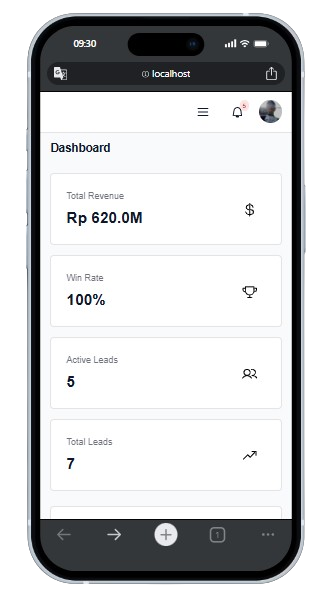
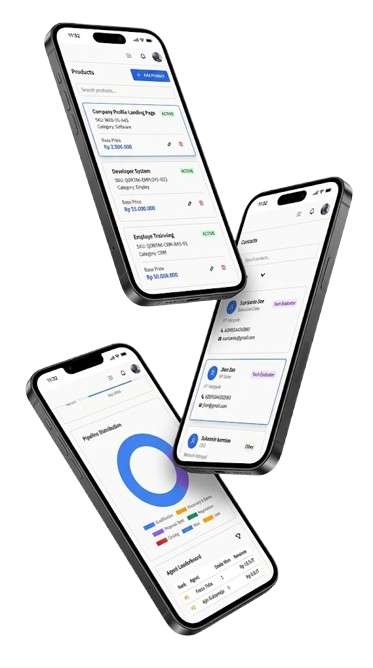
Mobile responsiveness: DealDetailPage + AgentsPage

diff --git a/frontend/src/pages/DealDetailPage.jsx b/frontend/src/pages/DealDetailPage.jsx
@@ -12,6 +12,7 @@ import {
   Portal,
   SimpleGrid,
   Spinner,
+  Stack,
   Text,
   VStack,
   Badge,
@@ -282,13 +283,13 @@ export default function DealDetailPage() {
 
   return (
     <VStack gap={6} align="stretch">
-      <HStack justify="space-between">
-        <HStack gap={3}>
+      <Stack direction={{ base: "column", md: "row" }} justify="space-between" gap={4} align={{ base: "start", md: "center" }}>
+        <HStack gap={3} wrap="wrap">
           <Button size="sm" variant="ghost" onClick={() => navigate("/deals")}><ArrowLeft size={16} /></Button>
           <Heading fontWeight="semibold" size="lg">{deal.name}</Heading>
           <Badge colorPalette={currentStage?.color || "gray"} size="lg">{currentStage?.label}</Badge>
         </HStack>
-        <HStack gap={2}>
+        <HStack gap={2} wrap="wrap">
           {deal.stage !== "WON" && deal.stage !== "LOST" && nextStage && (
             <Button size="sm" bg="primary" color="white" onClick={() => handleMoveStage(nextStage.value)} _hover={{ bg: "secondary" }}>
               <ArrowRight size={14} /> Move to {nextStage.label}
@@ -302,14 +303,14 @@ export default function DealDetailPage() {
           )}
           <Button size="sm" variant="outline" onClick={openEditDeal}><PencilSimple size={14} /> Edit</Button>
         </HStack>
-      </HStack>
+      </Stack>
 
       <Box display="grid" gridTemplateColumns={{ base: "1fr", lg: "2fr 1fr" }} gap={6}>
         <VStack gap={6} align="stretch">
           <Card.Root bg="#FAFAFA" border="1px solid" borderColor="border">
             <Card.Header><Heading fontWeight="semibold" size="sm">Deal Information</Heading></Card.Header>
             <Card.Body>
-              <SimpleGrid columns={2} gap={4}>
+              <SimpleGrid columns={{ base: 1, md: 2 }} gap={4}>
                 <VStack align="start" gap={1}>
                   <Text fontSize="xs" color="gray.500">Deal Value</Text>
                   <HStack gap={1}><CurrencyDollar size={14} color="primary" /><Text fontWeight="bold" fontSize="lg" color="primary">Rp {Number(deal.amount).toLocaleString("id-ID")}</Text></HStack>
@@ -327,7 +328,7 @@ export default function DealDetailPage() {
                   <Text fontSize="sm">{deal.source || "-"}</Text>
                 </VStack>
                 {deal.description && (
-                  <VStack align="start" gap={1} gridColumn="span 2">
+                  <VStack align="start" gap={1} gridColumn={{ base: "span 1", md: "span 2" }}>
                     <Text fontSize="xs" color="gray.500">Description</Text>
                     <Text fontSize="sm">{deal.description}</Text>
                   </VStack>
@@ -381,27 +382,29 @@ export default function DealDetailPage() {
               ) : (
                 <VStack gap={3} align="stretch">
                   {deal.line_items.map((li) => (
-                    <HStack key={li.id} p={3} bg="muted" borderRadius="lg" justify="space-between">
-                      <HStack gap={3}>
-                        <Box w={8} h={8} borderRadius="full" bg="purple.500" color="white" display="flex" alignItems="center" justifyContent="center"><Package size={14} /></Box>
-                        <VStack align="start" gap={0}>
-                          <Text fontWeight="medium" fontSize="sm">{li.product_name}</Text>
-                          {li.product_code && <Text fontSize="xs" color="gray.500">SKU: {li.product_code}</Text>}
-                        </VStack>
-                      </HStack>
-                      <HStack gap={4} align="center">
-                        <VStack align="end" gap={0}>
-                          <Text fontSize="xs" color="gray.500">Qty: {li.quantity}</Text>
-                          <Text fontSize="xs" color="gray.500">Price: Rp {Number(li.unit_price).toLocaleString("id-ID")}</Text>
-                          {Number(li.discount) > 0 && <Text fontSize="xs" color="red.500">Discount: {Number(li.discount)}%</Text>}
-                        </VStack>
-                        <Text fontWeight="bold" fontSize="sm" color="primary">Rp {Number(li.total_price).toLocaleString("id-ID")}</Text>
+                    <VStack key={li.id} p={3} bg="muted" borderRadius="lg" align="stretch" gap={3}>
+                      <HStack justify="space-between" gap={3}>
+                        <HStack gap={3}>
+                          <Box w={8} h={8} borderRadius="full" bg="purple.500" color="white" display="flex" alignItems="center" justifyContent="center"><Package size={14} /></Box>
+                          <VStack align="start" gap={0}>
+                            <Text fontWeight="medium" fontSize="sm">{li.product_name}</Text>
+                            {li.product_code && <Text fontSize="xs" color="gray.500">SKU: {li.product_code}</Text>}
+                          </VStack>
+                        </HStack>
                         <HStack gap={1}>
                           <Button size="xs" variant="ghost" onClick={() => openEditLineItem(li)}><PencilSimple size={12} /></Button>
                           <Button size="xs" variant="ghost" color="red.500" onClick={() => handleDeleteLineItem(li.id)}><Trash size={12} /></Button>
                         </HStack>
                       </HStack>
-                    </HStack>
+                      <HStack justify="space-between" pl={11}>
+                        <VStack align="start" gap={0}>
+                          <Text fontSize="xs" color="gray.500">Qty: {li.quantity}</Text>
+                          <Text fontSize="xs" color="gray.500">Price: Rp {Number(li.unit_price).toLocaleString("id-ID")}</Text>
+                          {Number(li.discount) > 0 && <Text fontSize="xs" color="red.500">Discount: {Number(li.discount)}%</Text>}
+                        </VStack>
+                        <Text fontWeight="bold" fontSize="sm" color="primary">Rp {Number(li.total_price).toLocaleString("id-ID")}</Text>
+                      </HStack>
+                    </VStack>
                   ))}
                 </VStack>
               )}
@@ -466,19 +469,19 @@ export default function DealDetailPage() {
                     <Input placeholder="Deal name" value={editForm.name || ""} onChange={(e) => { setEditErrors({}); setEditForm({ ...editForm, name: e.target.value }); }} />
                     <Field.ErrorText>{editErrors.name}</Field.ErrorText>
                   </Field.Root>
-                  <HStack gap={4} w="full">
-                    <Field.Root flex={1}><Field.Label>Amount (Rp) (optional)</Field.Label><Input type="number" placeholder="0" value={editForm.amount || ""} onChange={(e) => setEditForm({ ...editForm, amount: e.target.value })} /></Field.Root>
-                    <Field.Root flex={1}><Field.Label>Probability (%) (optional)</Field.Label><Input type="number" placeholder="0-100" value={editForm.probability || ""} onChange={(e) => setEditForm({ ...editForm, probability: parseInt(e.target.value) || 0 })} /></Field.Root>
-                  </HStack>
-                  <HStack gap={4} w="full">
-                    <Field.Root flex={1}><Field.Label>Stage (optional)</Field.Label><select value={editForm.stage || ""} onChange={(e) => setEditForm({ ...editForm, stage: e.target.value })} style={{ padding: "8px 12px", borderRadius: "8px", border: "1px solid var(--color-border)", fontSize: "14px", width: "100%", backgroundColor: "#FAFAFA" }}>{STAGE_CHOICES.map((s) => <option key={s.value} value={s.value}>{s.label}</option>)}</select></Field.Root>
-                    <Field.Root flex={1}><Field.Label>Expected Close (optional)</Field.Label><Input type="date" value={editForm.expected_close_date || ""} onChange={(e) => setEditForm({ ...editForm, expected_close_date: e.target.value })} /></Field.Root>
-                  </HStack>
+                  <SimpleGrid columns={{ base: 1, md: 2 }} gap={4} w="full">
+                    <Field.Root><Field.Label>Amount (Rp) (optional)</Field.Label><Input type="number" placeholder="0" value={editForm.amount || ""} onChange={(e) => setEditForm({ ...editForm, amount: e.target.value })} /></Field.Root>
+                    <Field.Root><Field.Label>Probability (%) (optional)</Field.Label><Input type="number" placeholder="0-100" value={editForm.probability || ""} onChange={(e) => setEditForm({ ...editForm, probability: parseInt(e.target.value) || 0 })} /></Field.Root>
+                  </SimpleGrid>
+                  <SimpleGrid columns={{ base: 1, md: 2 }} gap={4} w="full">
+                    <Field.Root><Field.Label>Stage (optional)</Field.Label><select value={editForm.stage || ""} onChange={(e) => setEditForm({ ...editForm, stage: e.target.value })} style={{ padding: "8px 12px", borderRadius: "8px", border: "1px solid var(--color-border)", fontSize: "14px", width: "100%", backgroundColor: "#FAFAFA" }}>{STAGE_CHOICES.map((s) => <option key={s.value} value={s.value}>{s.label}</option>)}</select></Field.Root>
+                    <Field.Root><Field.Label>Expected Close (optional)</Field.Label><Input type="date" value={editForm.expected_close_date || ""} onChange={(e) => setEditForm({ ...editForm, expected_close_date: e.target.value })} /></Field.Root>
+                  </SimpleGrid>
                   {editForm.stage === "LOST" && (
-                    <HStack gap={4} w="full">
-                      <Field.Root flex={1}><Field.Label>Lost Reason (optional)</Field.Label><select value={editForm.lost_reason || ""} onChange={(e) => setEditForm({ ...editForm, lost_reason: e.target.value })} style={{ padding: "8px 12px", borderRadius: "8px", border: "1px solid var(--color-border)", fontSize: "14px", width: "100%", backgroundColor: "#FAFAFA" }}><option value="">Select...</option>{LOST_REASON_CHOICES.map((r) => <option key={r.value} value={r.value}>{r.label}</option>)}</select></Field.Root>
-                      <Field.Root flex={1}><Field.Label>Lost Notes (optional)</Field.Label><Input placeholder="Why was this deal lost?" value={editForm.lost_notes || ""} onChange={(e) => setEditForm({ ...editForm, lost_notes: e.target.value })} /></Field.Root>
-                    </HStack>
+                    <SimpleGrid columns={{ base: 1, md: 2 }} gap={4} w="full">
+                      <Field.Root><Field.Label>Lost Reason (optional)</Field.Label><select value={editForm.lost_reason || ""} onChange={(e) => setEditForm({ ...editForm, lost_reason: e.target.value })} style={{ padding: "8px 12px", borderRadius: "8px", border: "1px solid var(--color-border)", fontSize: "14px", width: "100%", backgroundColor: "#FAFAFA" }}><option value="">Select...</option>{LOST_REASON_CHOICES.map((r) => <option key={r.value} value={r.value}>{r.label}</option>)}</select></Field.Root>
+                      <Field.Root><Field.Label>Lost Notes (optional)</Field.Label><Input placeholder="Why was this deal lost?" value={editForm.lost_notes || ""} onChange={(e) => setEditForm({ ...editForm, lost_notes: e.target.value })} /></Field.Root>
+                    </SimpleGrid>
                   )}
                   <Field.Root w="full"><Field.Label>Description (optional)</Field.Label><textarea placeholder="Deal description..." value={editForm.description || ""} onChange={(e) => setEditForm({ ...editForm, description: e.target.value })} rows={3} style={{ width: "100%", padding: "8px 12px", borderRadius: "8px", border: "1px solid var(--color-border)", fontSize: "14px", resize: "vertical" }} /></Field.Root>
                 </VStack>
@@ -545,14 +548,14 @@ export default function DealDetailPage() {
                     </select>
                     <Field.ErrorText>{lineItemErrors.product}</Field.ErrorText>
                   </Field.Root>
-                  <HStack gap={4} w="full">
-                    <Field.Root flex={1}><Field.Label>Quantity (optional)</Field.Label><Input type="number" placeholder="1" value={lineItemForm.quantity} onChange={(e) => setLineItemForm({ ...lineItemForm, quantity: parseInt(e.target.value) || 1 })} /></Field.Root>
-                    <Field.Root flex={1} required invalid={!!lineItemErrors.unit_price}>
+                  <SimpleGrid columns={{ base: 1, md: 2 }} gap={4} w="full">
+                    <Field.Root><Field.Label>Quantity (optional)</Field.Label><Input type="number" placeholder="1" value={lineItemForm.quantity} onChange={(e) => setLineItemForm({ ...lineItemForm, quantity: parseInt(e.target.value) || 1 })} /></Field.Root>
+                    <Field.Root required invalid={!!lineItemErrors.unit_price}>
                       <Field.Label>Unit Price (Rp)</Field.Label>
                       <Input type="number" placeholder="0" value={lineItemForm.unit_price} onChange={(e) => { setLineItemErrors({ ...lineItemErrors, unit_price: undefined }); setLineItemForm({ ...lineItemForm, unit_price: parseFloat(e.target.value) || 0 }); }} />
                       <Field.ErrorText>{lineItemErrors.unit_price}</Field.ErrorText>
                     </Field.Root>
-                  </HStack>
+                  </SimpleGrid>
                   <Field.Root w="full"><Field.Label>Discount (%) (optional)</Field.Label><Input type="number" placeholder="0" min={0} max={100} value={lineItemForm.discount} onChange={(e) => { const v = Math.min(100, Math.max(0, parseFloat(e.target.value) || 0)); setLineItemForm({ ...lineItemForm, discount: v }); }} /></Field.Root>
                   <HStack justify="space-between" w="full" p={3} bg="muted" borderRadius="lg">
                     <Text fontSize="sm" fontWeight="bold">Total:</Text>

diff --git a/frontend/src/pages/LandingPage.jsx b/frontend/src/pages/LandingPage.jsx
@@ -33,12 +33,36 @@ import pipelineHighlight from "@/assets/pipeline-highlight.png";
 import ctaImg from "@/assets/cta.jpg";
 
 const features = [
-  { icon: Kanban, title: "Sales Pipeline", desc: "Visual Kanban board to track every deal from first contact to closed won." },
-  { icon: ChartLineUp, title: "Real-time Analytics", desc: "Dashboards with charts showing revenue, win rate, and agent performance." },
-  { icon: Users, title: "Lead Management", desc: "Organize, tag, and filter prospects with Hot/Cold temperature indicators." },
-  { icon: ShieldCheck, title: "Secure & Multi-tenant", desc: "JWT authentication with company-level data isolation for every team." },
-  { icon: Lightning, title: "Activity Tracking", desc: "Chronological activity logs for every lead interaction, nothing lost." },
-  { icon: DeviceMobile, title: "Responsive Design", desc: "Full mobile and desktop support — manage deals from anywhere." },
+  {
+    icon: Kanban,
+    title: "Visual Sales Pipeline",
+    desc: "Track every deal seamlessly with an intuitive Kanban board. Drag and drop leads across customized stages from initial inquiry to final contract signing.",
+  },
+  {
+    icon: ChartLineUp,
+    title: "Real-time Analytics & Dashboards",
+    desc: "Make data-driven decisions with dynamic charts. Monitor monthly revenue forecasts, team win rates, pipeline distribution, and top-performing sales agents.",
+  },
+  {
+    icon: Users,
+    title: "Advanced Lead Management",
+    desc: "Organize, tag, and segment prospects effortlesly. Utilize Hot/Cold temperature indicators and custom filters to prioritize high-value leads and boost conversion.",
+  },
+  {
+    icon: ShieldCheck,
+    title: "Multi-tenant & Enterprise Security",
+    desc: "Built with JWT authentication and strict company-level data isolation, ensuring your sensitive business data stays completely secure and private.",
+  },
+  {
+    icon: Lightning,
+    title: "Chronological Activity Tracking",
+    desc: "Log every touchpoint with your leads. From phone calls and meeting notes to email updates, maintain a complete timeline of customer interactions.",
+  },
+  {
+    icon: DeviceMobile,
+    title: "Seamless Cross-Device Experience",
+    desc: "Designed for modern remote teams. Enjoy full functionality and smooth user experience whether you are on a desktop workstation or a mobile device.",
+  },
 ];
 
 const stats = [
@@ -334,7 +358,7 @@ export default function LandingPage() {
           <VStack gap={8} textAlign="center">
             <VStack gap={3}>
               <Heading
-                fontWeight="semibold"
+                fontWeight="bold"
                 size="xl"
                 color="foreground"
                 lineHeight="tight"
@@ -342,7 +366,7 @@ export default function LandingPage() {
                 Track Every Deal from Start to Close
               </Heading>
               <Text color="foreground" opacity={0.5} maxW="lg" lineHeight="relaxed">
-                Drag and drop your deals across stages — from first contact to
+                Switch your deals across stages, from first contact to
                 closed won.
               </Text>
             </VStack>
@@ -416,7 +440,6 @@ export default function LandingPage() {
               display="flex"
               alignItems="center"
               justifyContent="center"
-              border="1px solid"
               borderColor="border"
               borderRadius="xl"
               overflow="hidden"
@@ -424,7 +447,7 @@ export default function LandingPage() {
               <Box
                 as="img"
                 src={dashboardHighlight}
-                maxH="380px"
+                maxH="650px"
                 alt="Dashboard Analytics"
               />
             </Box>

diff --git a/frontend/src/pages/AgentsPage.jsx b/frontend/src/pages/AgentsPage.jsx
@@ -123,7 +123,34 @@ export default function AgentsPage() {
         <Button bg="primary" color="white" onClick={openCreate} _hover={{ bg: "secondary" }}><UserPlus size={16} /> Add Agent</Button>
       </HStack>
 
-      <Card.Root bg="#FAFAFA" border="1px solid" borderColor="border">
+      {/* Mobile: Card list */}
+      <VStack display={{ base: "flex", md: "none" }} gap={3} align="stretch">
+        {agents.map((agent) => (
+          <Card.Root key={agent.id} bg="#FAFAFA" border="1px solid" borderColor="border">
+            <Card.Body>
+              <HStack justify="space-between" gap={3}>
+                <HStack gap={3}>
+                  <Avatar.Root size="sm">
+                    {agent.avatar_url ? <Avatar.Image src={agent.avatar_url} /> : <Avatar.Fallback name={`${agent.first_name} ${agent.last_name}`} bg="primary" color="white" />}
+                  </Avatar.Root>
+                  <VStack align="start" gap={0}>
+                    <Text fontWeight="medium" fontSize="sm">{agent.first_name} {agent.last_name}</Text>
+                    <Text fontSize="xs" color="gray.500">{agent.email}</Text>
+                    <Badge size="sm" colorPalette={agent.role === "MANAGER" ? "purple" : "blue"}>{agent.role}</Badge>
+                  </VStack>
+                </HStack>
+                <HStack gap={1}>
+                  <Button size="xs" variant="ghost" onClick={() => openEdit(agent)}><Pencil size={12} /></Button>
+                  <Button size="xs" variant="ghost" colorPalette="red" onClick={() => setDeleteDialog({ open: true, id: agent.id })}><Trash size={12} /></Button>
+                </HStack>
+              </HStack>
+            </Card.Body>
+          </Card.Root>
+        ))}
+      </VStack>
+
+      {/* Desktop: Table */}
+      <Card.Root bg="#FAFAFA" border="1px solid" borderColor="border" display={{ base: "none", md: "block" }}>
         <Card.Body>
           <Table.Root size="sm">
             <Table.Header>
@@ -179,7 +206,7 @@ export default function AgentsPage() {
                     <Box position="absolute" bottom={0} right={0} bg="primary" color="white" p={1.5} borderRadius="full"><Camera size={14} /></Box>
                     <input ref={fileInputRef} type="file" accept="image/*" hidden onChange={handleAvatarChange} />
                   </Box>
-                  <SimpleGrid columns={2} gap={4} w="full">
+                  <SimpleGrid columns={{ base: 1, md: 2 }} gap={4} w="full">
                     <Field.Root required><Field.Label>First Name</Field.Label><Input value={form.first_name} onChange={(e) => setForm({ ...form, first_name: e.target.value })} /></Field.Root>
                     <Field.Root required><Field.Label>Last Name</Field.Label><Input value={form.last_name} onChange={(e) => setForm({ ...form, last_name: e.target.value })} /></Field.Root>
                     <Field.Root required><Field.Label>Username</Field.Label><Input value={form.username} onChange={(e) => setForm({ ...form, username: e.target.value })} disabled={!!editAgent} /></Field.Root>
